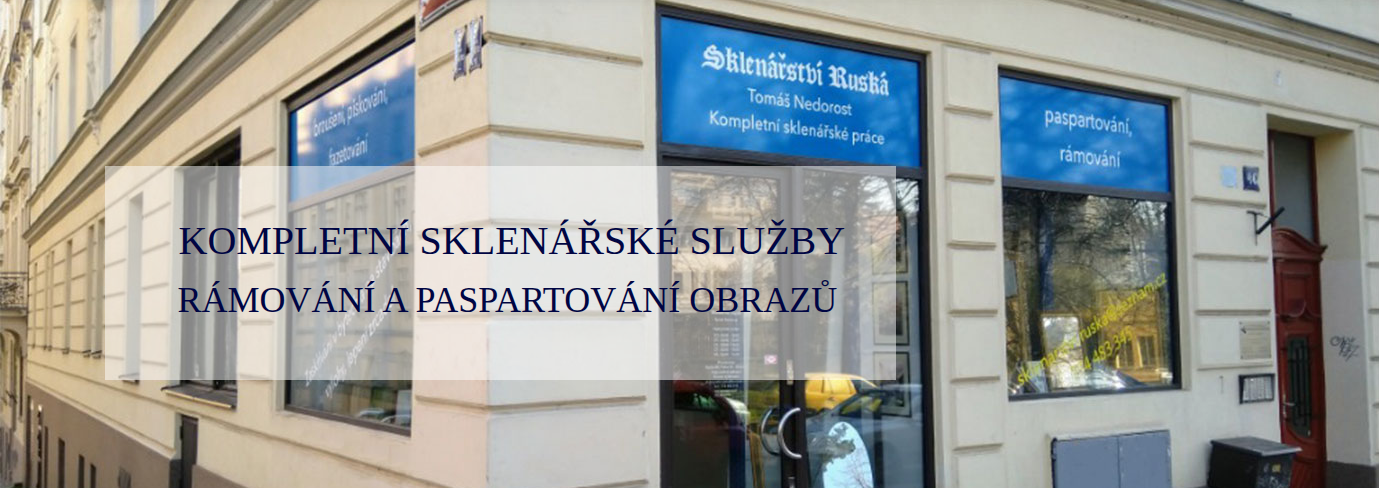
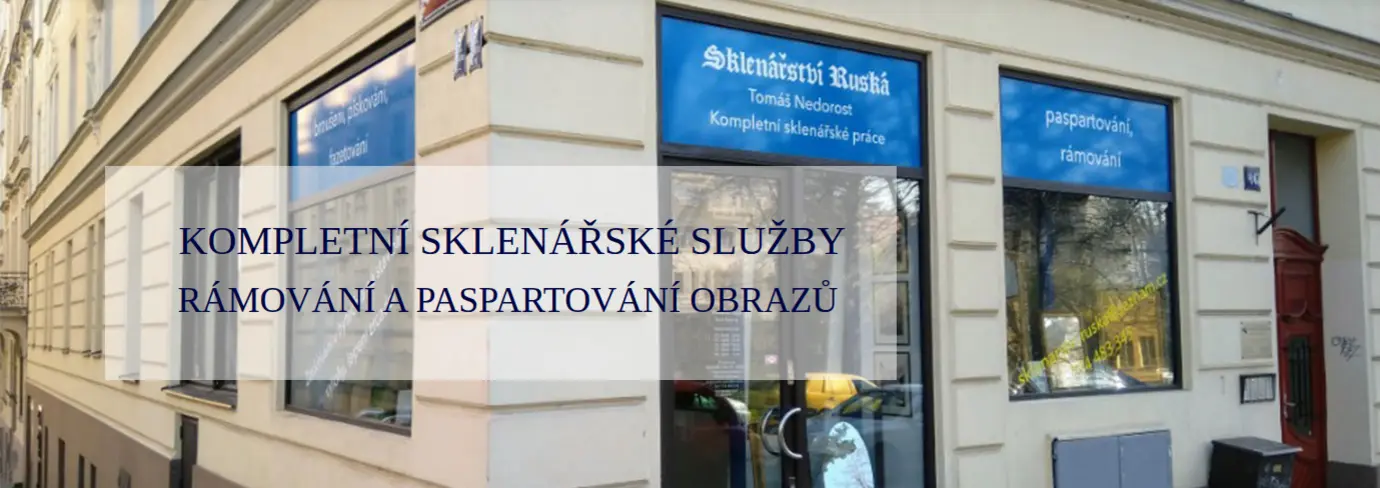
perf: Improve image and font loading performance
- Convert images to WebP format
- Implement responsive images with srcset
- Add lazy loading for non-critical images
- Optimize Google Fonts loading

Changed region(s): [[0.1247, 0.4303, 0.6236, 0.5225], [0.1247, 0.584, 0.5925, 0.6455]]

diff --git a/src/styles/global.css b/src/styles/global.css
@@ -1,4 +1,3 @@
-@import url('https://fonts.googleapis.com/css2?family=Open+Sans:wght@400;600;700&display=swap');
 @import './variables.css';
 
 *,
